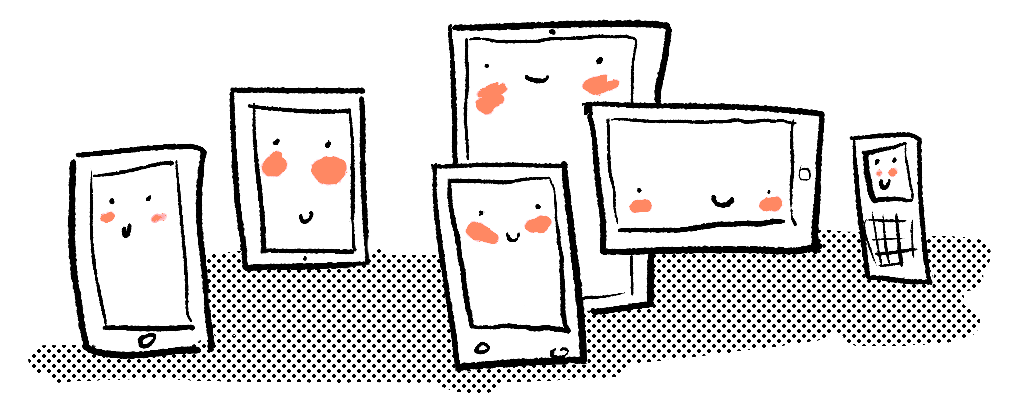
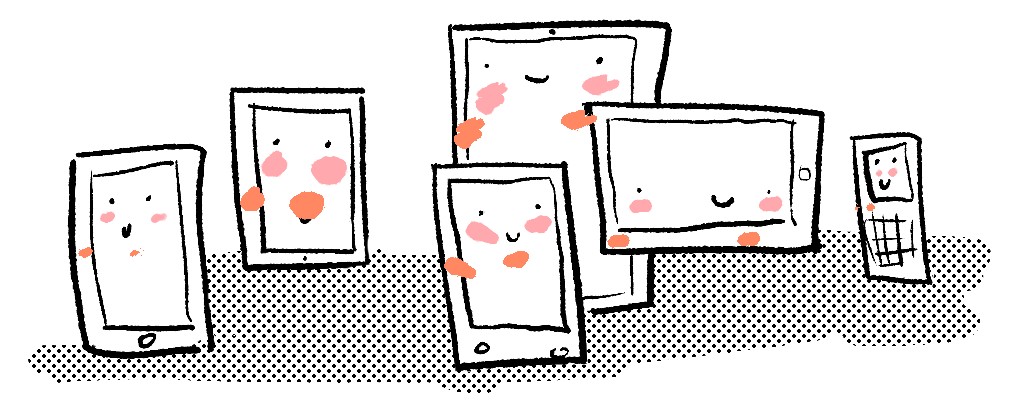
Add spot illustratinos

diff --git a/css/main.css b/css/main.css
@@ -147,8 +147,9 @@ a:hover, a:focus {
 }
 
 .article--body img {
-    max-width: 100%;
+    max-width: 140%;
     margin: 0 auto;
+    margin-left: -20%;
     display: block;
 }
 

diff --git a/chapter/introduction.md b/chapter/introduction.md
@@ -6,7 +6,7 @@ title: Introduction
 intro: What's a website! 
 ---
 
-![The web is ubiquitous spot illustration](/assets/ubiquitous.png)
+![The web is ubiquitous spot illustration](/assets/Artboard-6.png)
 
 ## The web is everywhere
 
